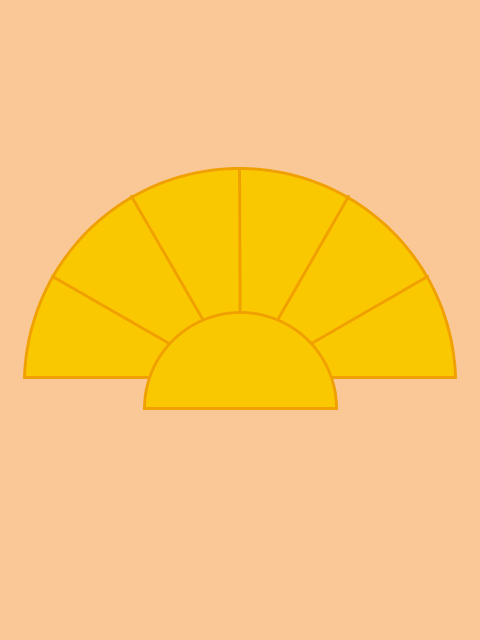
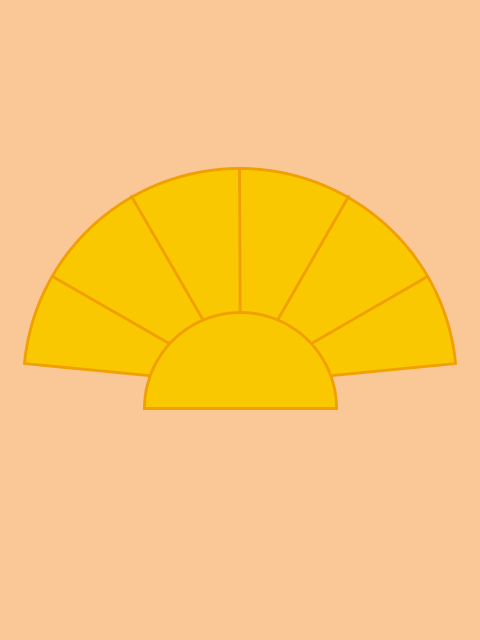
fixed

diff --git a/examples/volume5/emperor_s_new_groove_the/README.md b/examples/volume5/emperor_s_new_groove_the/README.md
@@ -22,12 +22,12 @@ Emperor Kuzco is turned into a llama by his ex-administrator Yzma, and must now 
 // The Emperor's new groove (2000)
 
 
-//final color PAPER = color(130, 170, 180);
 final color PAPER = color(250, 200, 150);
 final color INK1 = color(250, 200, 0);
 final color INK2 = color(240, 160, 0);
 
-final float DELTA = 0.01*PI;
+final float DELTA = 0.03*PI;
+
 
 void setup() {
   size(480, 640);
@@ -50,7 +50,7 @@ void draw() {
   stroke(INK2);
   
   strokeWeight(3*U);
-  arc(0.0, 0.0, 0.9, 0.9, -PI+DELTA, 0.0-DELTA, CHORD);
+  arc(0.0, 0.0, 0.9, 0.9, -PI+DELTA, 0.0-DELTA, PIE);
   
   pushMatrix();
   for(int i=1; i<6; i++) {
@@ -63,6 +63,5 @@ void draw() {
   arc(0.0, 0.05, 0.4, 0.4, -PI, 0.0, CHORD);
   
   save("the-emperor's-new-groove.png");
-
 }
 ```
